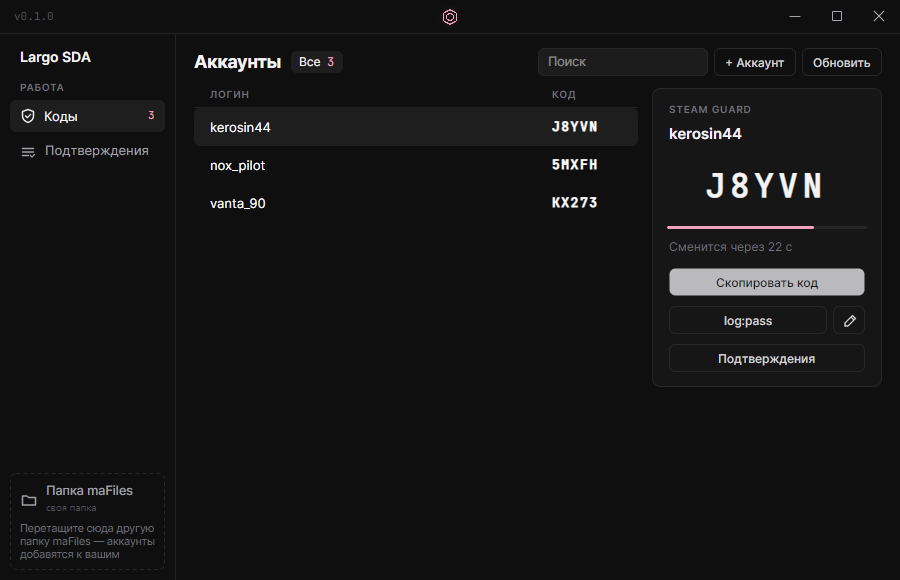
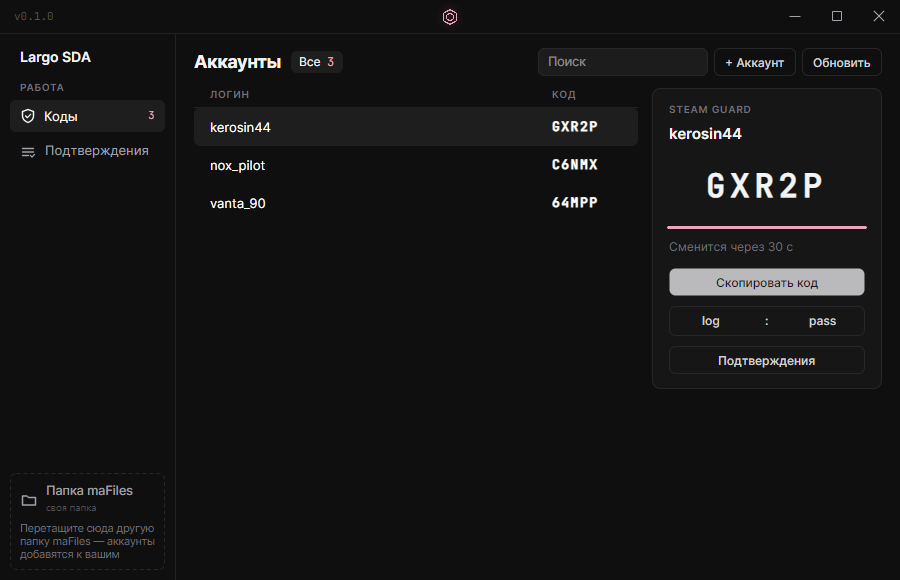
0.1.1: log : pass copy buttons, no password prompts, cleaner list
- "log : pass" control: log copies the login, ":" copies login:password,
  pass copies the password; nothing pops up when no password is saved
- Removed session dots next to logins
- Hint under the code no longer overlaps the countdown
- Accessible names for window buttons

diff --git a/src/LargoSda.App/ViewModels.cs b/src/LargoSda.App/ViewModels.cs
@@ -377,22 +377,28 @@ public sealed class MainViewModel : ObservableObject
     public Task CopyLoginAsync(Func<string, Task> setClipboard, AccountViewModel? account = null) =>
         CopyAsync(setClipboard, (account ?? Selected)?.Name, "Логин скопирован");
 
-    /// <summary>Copies login:password; opens the password editor when no password is saved yet.</summary>
+    /// <summary>Copies login:password; without a saved password copies just the login (never asks for anything).</summary>
     public async Task CopyLoginPasswordAsync(Func<string, Task> setClipboard, AccountViewModel? account = null)
     {
         account ??= Selected;
         if (account is null) return;
 
-        var password = account.Password;
-        if (password is null)
-        {
-            Selected = account;
-            Page = Page.Codes;
-            EditingPassword = true;
-            ShowHint(account.HasPassword ? "Пароль с другого ПК — задайте заново" : "Сначала задайте пароль", 3000);
-            return;
-        }
-        await CopyAsync(setClipboard, $"{account.Name}:{password}", "log:pass скопирован");
+        if (account.Password is { } password)
+            await CopyAsync(setClipboard, $"{account.Name}:{password}", "log:pass скопирован");
+        else
+            await CopyAsync(setClipboard, account.Name, "Пароля нет — скопирован логин");
+    }
+
+    /// <summary>Copies only the password; without a saved password just says so.</summary>
+    public async Task CopyPasswordAsync(Func<string, Task> setClipboard, AccountViewModel? account = null)
+    {
+        account ??= Selected;
+        if (account is null) return;
+
+        if (account.Password is { } password)
+            await CopyAsync(setClipboard, password, "Пароль скопирован");
+        else
+            ShowHint("Пароль не сохранён", 2500);
     }
 
     private async Task CopyAsync(Func<string, Task> setClipboard, string? text, string hint)

diff --git a/src/LargoSda.App/MainWindow.axaml.cs b/src/LargoSda.App/MainWindow.axaml.cs
@@ -131,9 +131,14 @@ public partial class MainWindow : Window
         if (ViewModel is { } vm) await vm.CopyLoginPasswordAsync(SetClipboard);
     }
 
-    private void OnEditPassword(object? sender, RoutedEventArgs e)
+    private async void OnCopyLogin(object? sender, RoutedEventArgs e)
     {
-        if (ViewModel is { } vm) vm.EditingPassword = !vm.EditingPassword;
+        if (ViewModel is { } vm) await vm.CopyLoginAsync(SetClipboard);
+    }
+
+    private async void OnCopyPassword(object? sender, RoutedEventArgs e)
+    {
+        if (ViewModel is { } vm) await vm.CopyPasswordAsync(SetClipboard);
     }
 
     private void OnSavePassword(object? sender, RoutedEventArgs e) => ViewModel?.SaveNewPassword();
@@ -159,6 +164,11 @@ public partial class MainWindow : Window
     private async void OnMenuCopyLogin(object? sender, RoutedEventArgs e)
     {
         if (ViewModel is { } vm) await vm.CopyLoginAsync(SetClipboard, AccountOf(sender));
+    }
+
+    private async void OnMenuCopyPassword(object? sender, RoutedEventArgs e)
+    {
+        if (ViewModel is { } vm) await vm.CopyPasswordAsync(SetClipboard, AccountOf(sender));
     }
 
     private async void OnMenuCopyLoginPass(object? sender, RoutedEventArgs e)
